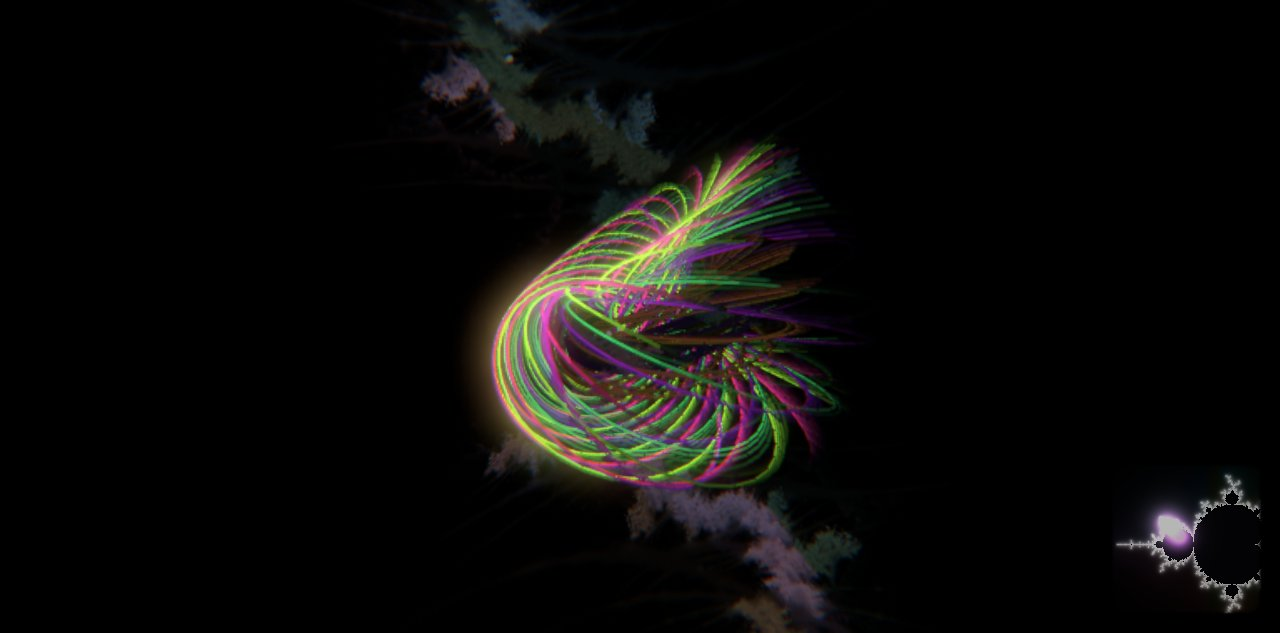
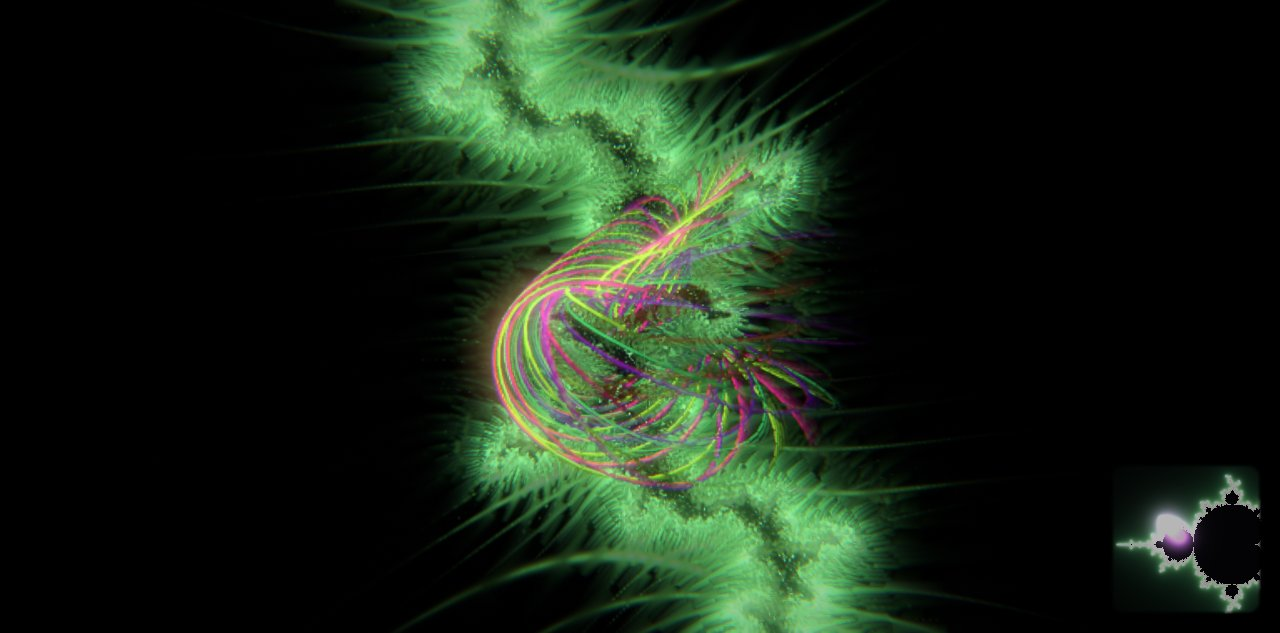
mixs reference re-based for the v2 colour default: 425a66e5… → 5892ddc5c1f553cbca140bbc1ef6b54d (NAV is scene 0 of the pair; triple [0,3,0.499]; accept.sh, HARNESS, the f178 jpg). Says so: the only change underneath is item 1's default colouring

diff --git a/docs/HARNESS.md b/docs/HARNESS.md
@@ -118,7 +118,7 @@ variant's md5 list; the plain list is the default's.
 
 ```
 CLOCK=1 GPU=1 OUT=tools/accept/v0.2 node tools/cdp.js 'test&scene=0&trans=mixs' '[{"until":"window.CARD"},{"until":"window.__FRAME>=120"},{"eval":"CARD.SC.forced=-1;CARD.goScene(3,false);CARD.SC.next"},{"until":"window.__FRAME>=178"},{"shot":"trans-mixs-0-3-f178"},{"eval":"JSON.stringify([CARD.SC.cur,CARD.SC.next,CARD.SC.m])"}]'
-# EVAL … => "[0,3,0.4994…]"   md5sum tools/accept/v0.3/trans-mixs-0-3-f178.jpg → 425a66e5b50c14786e6e25bc215a3169 (GPU=1, 1280×720; a6e2b8cd… on the v0.2 chain)
+# EVAL … => "[0,3,0.4994…]"   md5sum tools/accept/v0.3/trans-mixs-0-3-f178.jpg → 5892ddc5c1f553cbca140bbc1ef6b54d (GPU=1, 1280×720; 425a66e5… under the §24/§25 OKLCH default, a6e2b8cd… on the v0.2 chain)
 ```
 `mixs` is v3's crossfade and must stay byte-identical to that md5. A different md5 after a core change is a pixel
 difference to explain, never a tolerance. `accept.sh` checks it on every sweep. Until §15 the reference was the fake
